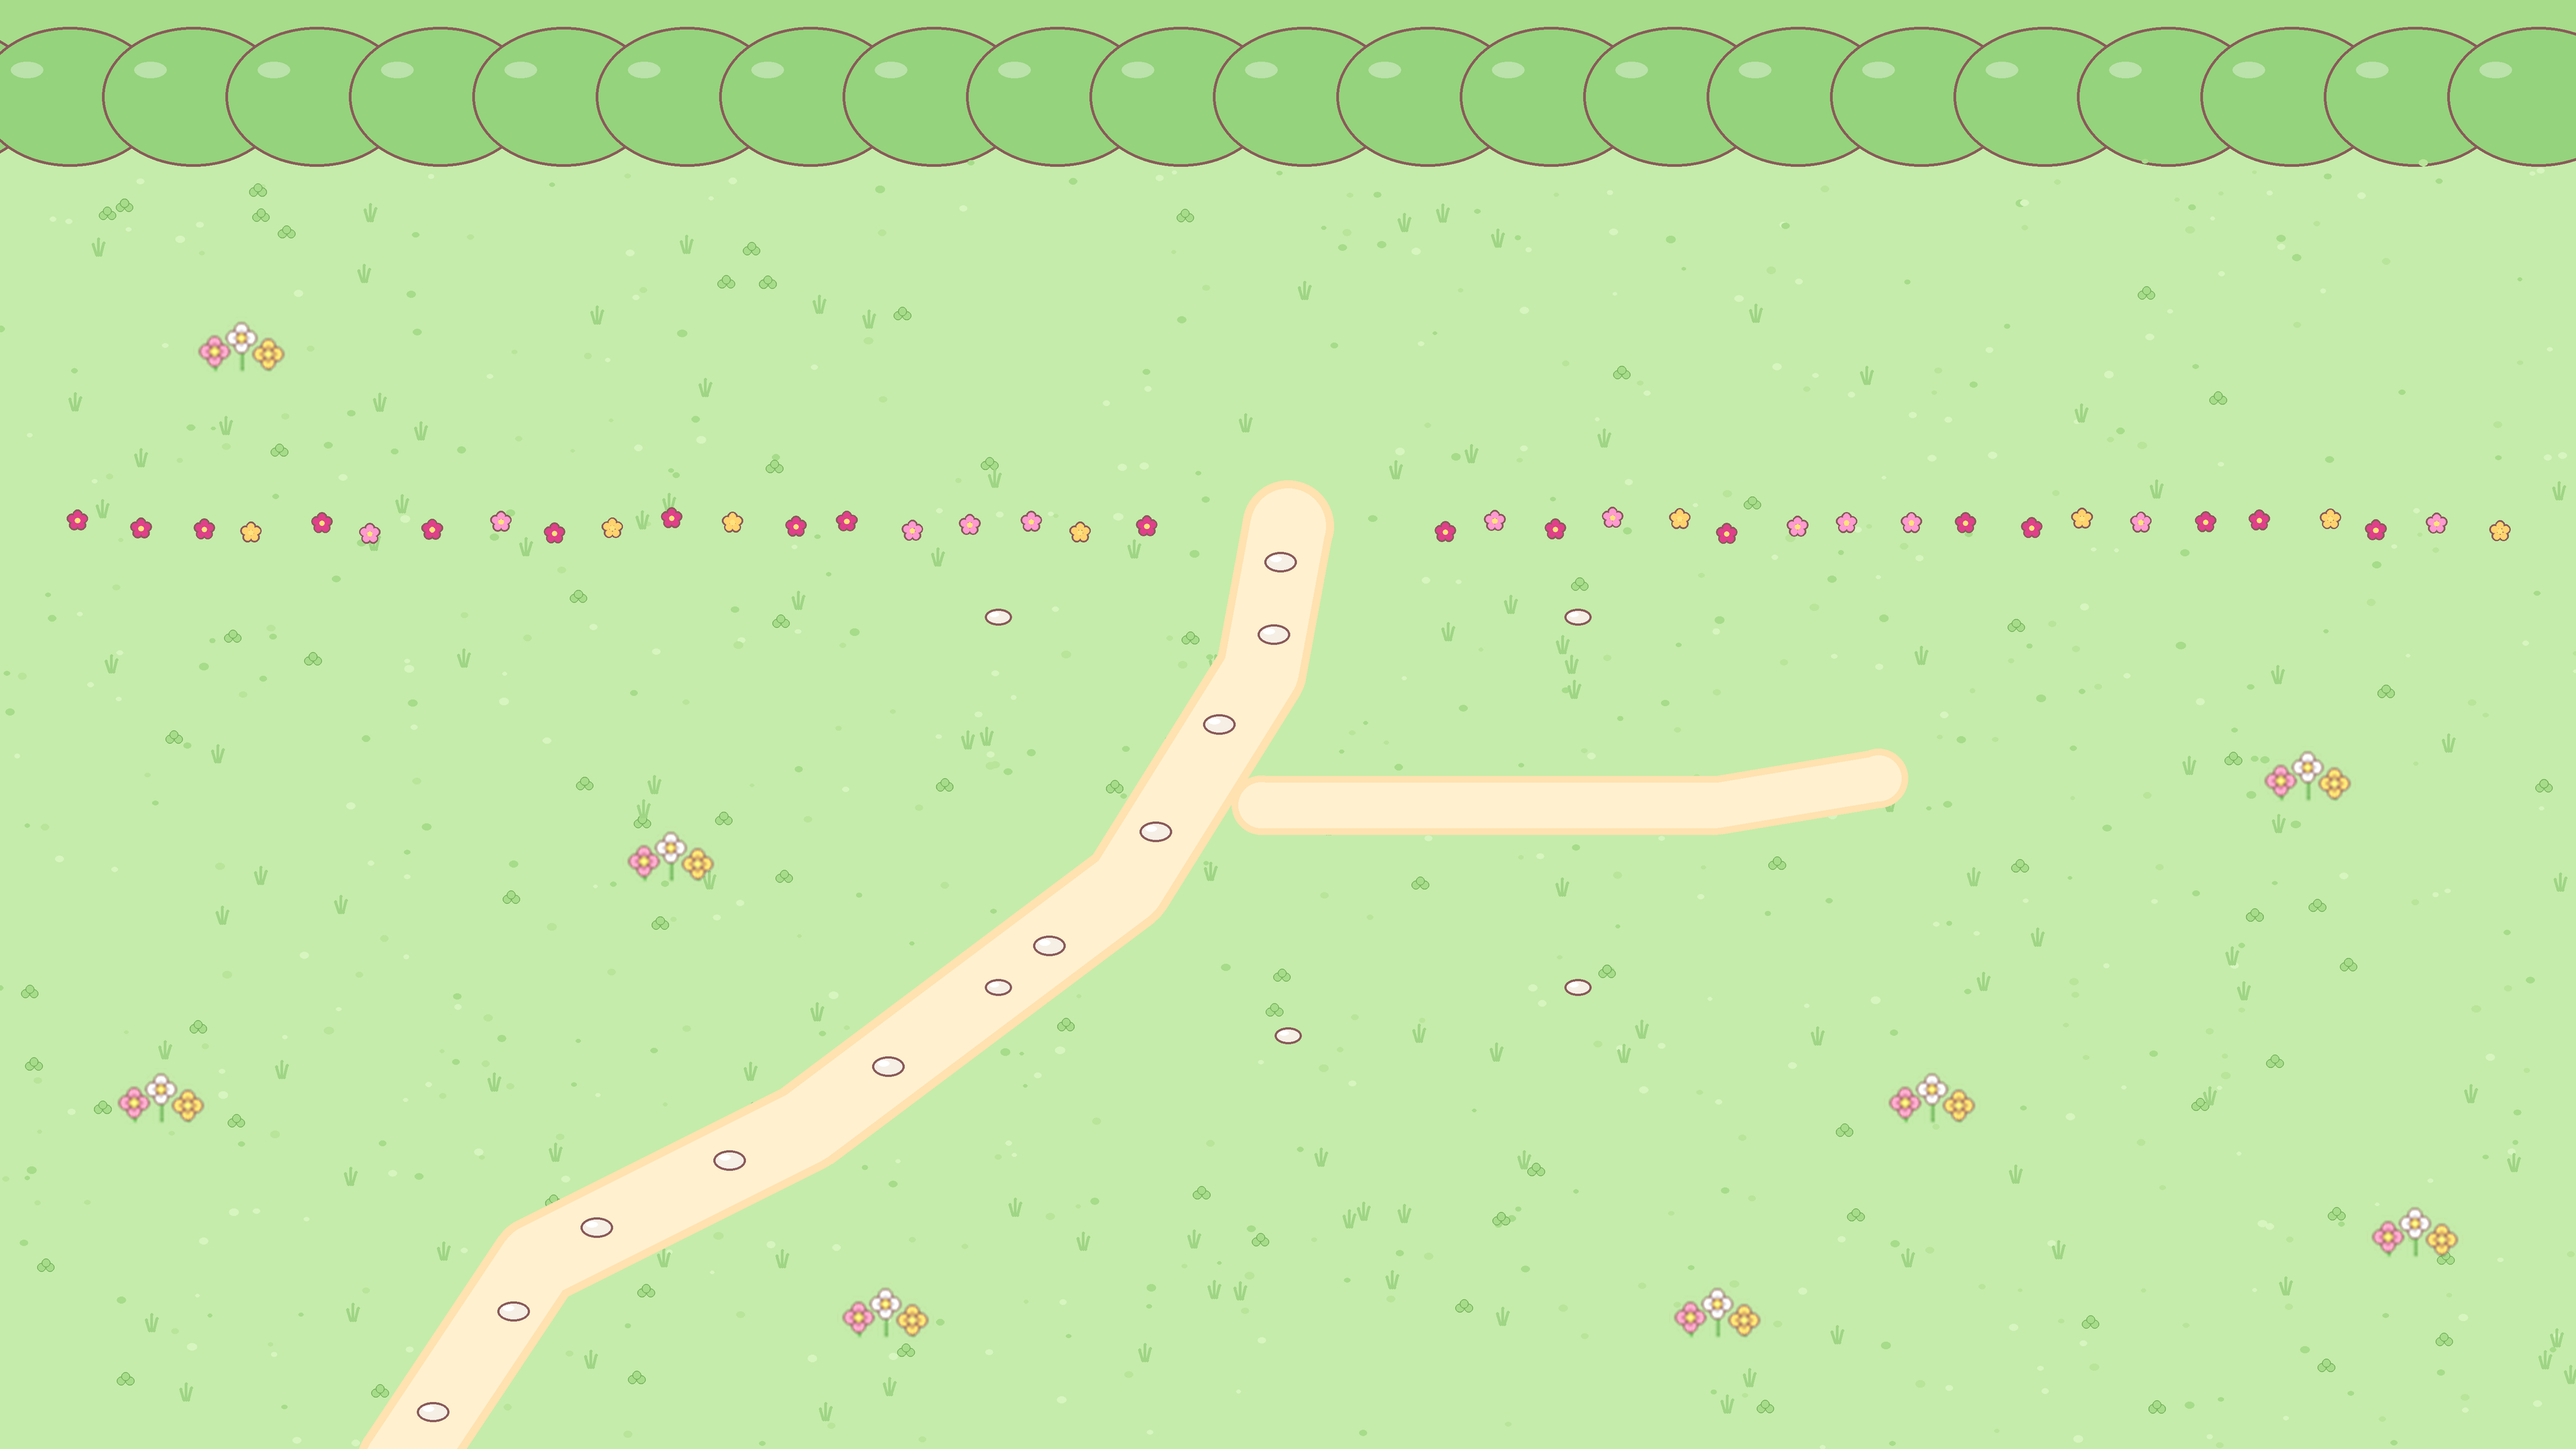
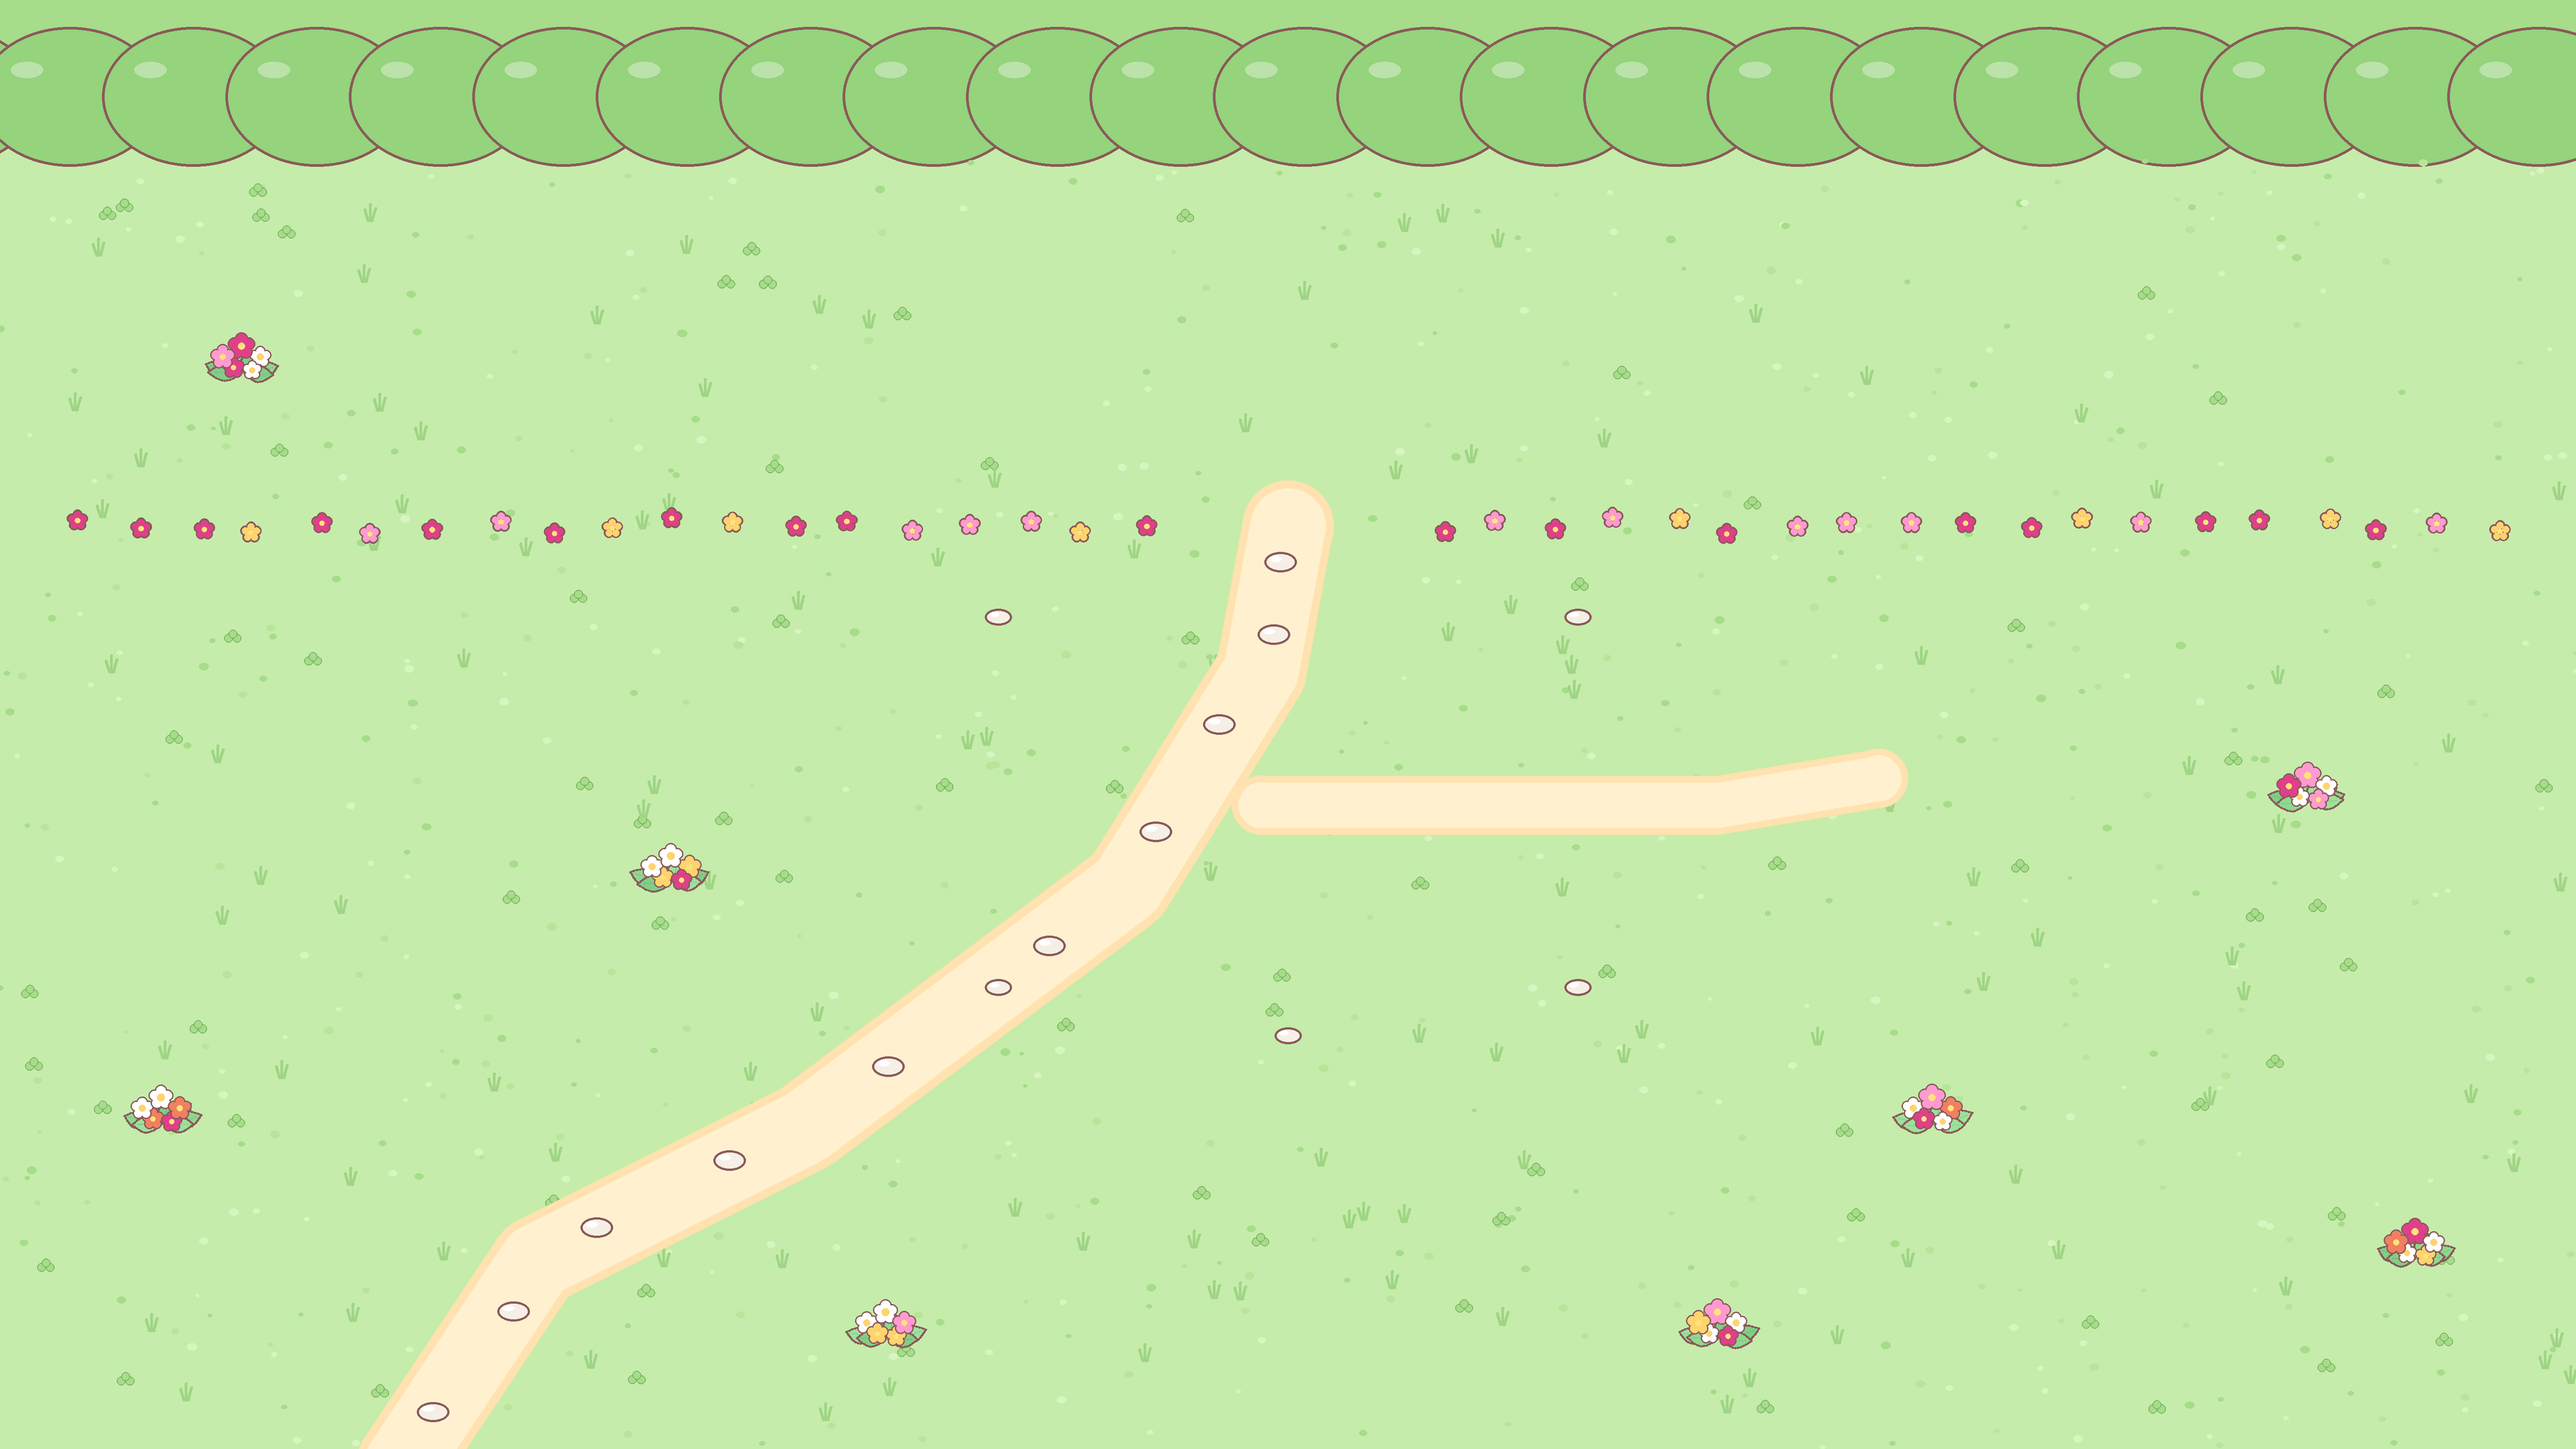
Florida lawns: flower clumps drawn into the garden and stable grounds at full resolution (almond leaves, hibiscus and plumeria) instead of an upscaled 36 px sprite; beach rowboat moved up so the village exit label reads clear; cut_paperdoll docstring gives the real frame size

diff --git a/tools/gen_florida_art.py b/tools/gen_florida_art.py
@@ -1,9 +1,8 @@
 """Draw the tropical Florida Keys maps: ground backgrounds, standing props, garden items, fish.
 
 Usage: python3 -I tools/gen_florida_art.py
-Inputs: prompts/STYLE.md palette (via tools/florida_draw.py), project/data/florida.json (the
-plants) and the canon flower cluster project/assets/canon/deco_flowers.png, scattered on the
-lawns. The canon sheets hold no tropical scenery, so everything else is drawn in their sticker
+Inputs: prompts/STYLE.md palette (via tools/florida_draw.py) and project/data/florida.json (the
+plants). The canon sheets hold no tropical scenery, so everything is drawn in their sticker
 look: warm-brown outline #8a5a5a, flat pastel fills with one highlight, faces on the big
 friendly things (STYLE.md 4.1), Florida's saturated accents (coral, hibiscus, bougainvillea,
 mango, key lime, turquoise). Sizes below are world px; every PNG is written at
@@ -659,14 +658,31 @@ def stone(p, x, y, r=5):
     p.ell(x - r * 0.3, y - r * 0.2, r * 0.35, r * 0.18, WHITE, 0)
 
 
-FLOWERS_W = 36
-
-
-def canon_flowers(im, x, y):
-    fl = fd.canon_sprite("deco_flowers")
-    k = FLOWERS_W * BG_S / fl.width  # the cluster is FLOWERS_W world px wide at any cut size
-    fl = fl.resize((round(fl.width * k), round(fl.height * k)), Image.LANCZOS)
-    im.alpha_composite(fl, (round(x * BG_S - fl.width / 2), round(y * BG_S - fl.height)))
+def flower_cluster(p, x, y, rnd):
+    """A clump of tropical flowers on the lawn (about 36x22 world px, standing on y): rounded
+    leaves, then hibiscus and plumeria heads in the Florida colours."""
+    for dx, ang in ((-4, 200), (-2, 228), (0, 256), (1, 284), (3, 312), (4, 338), (0, 180), (1, 360)):
+        rad = math.radians(ang + rnd.uniform(-6, 6))
+        bx, by = x + dx, y - 1
+        L, W = rnd.uniform(10, 12.5), 3.0
+        ux, uy, nx, ny = math.cos(rad), math.sin(rad) * 0.8, -math.sin(rad), math.cos(rad)
+        pts = []
+        for k in range(13):  # almond leaf: tip to tip down one side and back up the other
+            t = k / 12
+            pts.append((bx + ux * L * t + nx * W * math.sin(t * math.pi), by + uy * L * t + ny * W * math.sin(t * math.pi)))
+        for k in range(11, 0, -1):
+            t = k / 12
+            pts.append((bx + ux * L * t - nx * W * math.sin(t * math.pi), by + uy * L * t - ny * W * math.sin(t * math.pi)))
+        col = rnd.choice(["#8fd88f", "#7fcf86", "#9ce29a"])
+        p.poly(pts, col, 0.7)
+        p.line([(bx, by), (bx + ux * L * 0.8, by + uy * L * 0.8)], fd.mix(col, INK, 0.3), 0.4)
+    heads = [(-7, -7, 4.2), (0, -11, 4.6), (7, -7, 4.0), (-3, -3, 3.8), (4, -2, 3.6)]
+    rnd.shuffle(heads)
+    for i, (dx, dy, r) in enumerate(heads):
+        if i % 2:
+            p.plumeria(x + dx, y + dy, r, 0.5)
+        else:
+            p.hibiscus(x + dx, y + dy, r, rnd.choice([fd.HIBISCUS, fd.BOUG, fd.FLOWER_YELLOW, fd.CORAL]), 0.55)
 
 
 def wavy(y0, amp, period, phase, x0=-10, x1=970, step=6):
@@ -781,7 +797,7 @@ def garden_bg():
         if not 430 < x < 530:
             p.hibiscus(x + rnd.uniform(-3, 3), 196 + rnd.uniform(-3, 3), 3.6, rnd.choice([fd.HIBISCUS, fd.FLOWER_YELLOW, fd.BOUG]), 0.6)
     for x, y in ((90, 140), (250, 330), (720, 420), (860, 300), (640, 500), (60, 420), (330, 500), (900, 470)):
-        canon_flowers(g.im, x, y)
+        flower_cluster(p, x, y, rnd)
     g.save("bg_florida_garden")
 
 
@@ -892,7 +908,7 @@ def stable_bg():
     for y in (240, 300, 360, 420, 480, 525):
         stone(p, 480 + rnd.uniform(-5, 5), y, 5)
     for x, y in ((120, 120), (840, 130), (60, 520), (900, 520), (300, 150), (660, 150)):
-        canon_flowers(g.im, x, y)
+        flower_cluster(p, x, y, rnd)
     g.save("bg_florida_stable")
 
 

diff --git a/tools/cut_paperdoll.py b/tools/cut_paperdoll.py
@@ -10,7 +10,7 @@ the game can stack them at one origin:
     head and its bottom set on the chin.
   - accessory: scaled by "scale" and placed at "anchor" relative to the head.
 White background and hair face openings become transparent.
-Layers keep the sheet's resolution (the shared canvas is about 540x790 px): no downscale, so
+Layers keep the sheet's resolution (the shared canvas is 721x760 px for the current sheet): no downscale, so
 the doll stays smooth illustration. Code scales it to its display size (player.gd fits it to
 48 world px tall; PaperDoll fits its rect).
 Outputs: project/assets/canon/<part>.png for every part in the data file.
